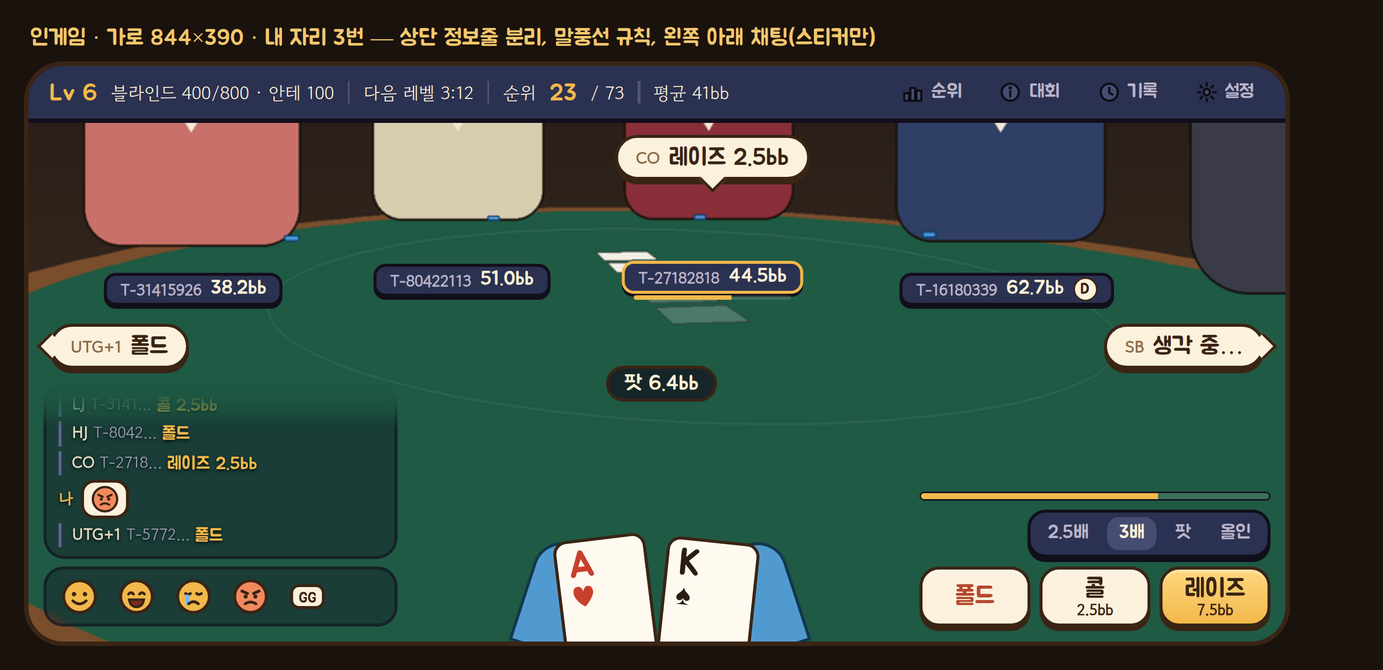
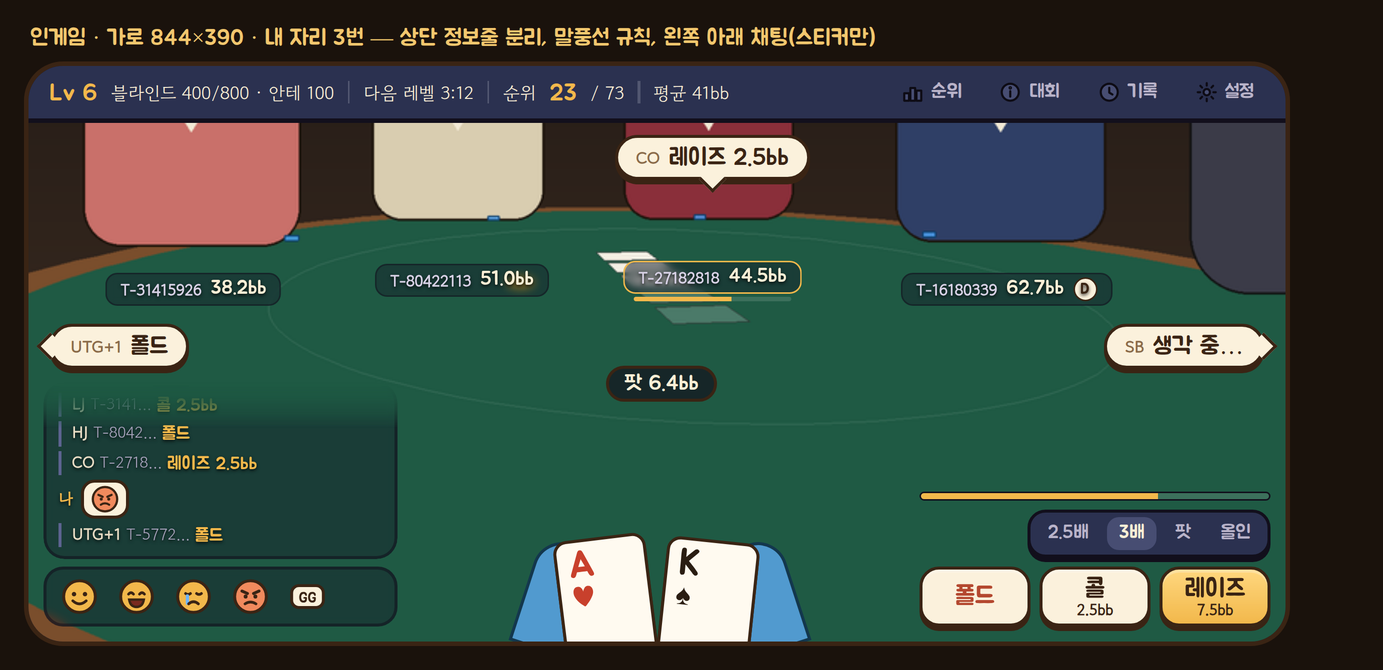
인게임 명패 반투명, 맨 위 띠를 테이블 화면과 분리(시제품도 같은 배치)
Claude-Session: https://claude.ai/code/session_01XV9GKUYpuxdA2ckcjg1qsv

diff --git a/ui/web/proto/motions.html b/ui/web/proto/motions.html
@@ -8,30 +8,27 @@
   :root{--ink:#3a2414;--paper:#fbf1dc;--navy:#2b3150;--amber:#f2b84b}
   html,body{margin:0;height:100%;background:#1d2238;overflow:hidden;font-family:"Jua","Gowun Dodum",system-ui,sans-serif;
     -webkit-user-select:none;user-select:none;-webkit-touch-callout:none}
-  canvas{display:block;width:100vw;height:100vh;touch-action:none}
-  .bar{position:fixed;left:8px;top:8px;right:150px;display:flex;flex-wrap:wrap;gap:6px;pointer-events:none}
-  .grp{display:flex;gap:5px;padding:5px;border-radius:14px;background:rgba(20,22,38,.55);border:2px solid rgba(18,15,28,.6);pointer-events:auto}
-  button{font:inherit;font-size:13px;height:30px;padding:0 9px;border-radius:11px;border:2.5px solid var(--ink);background:var(--paper);color:var(--ink);
+  /* 맨 위 띠는 테이블 화면과 분리된 별도 영역이다(테이블 위에 떠 있지 않다) */
+  body{display:flex;flex-direction:column}
+  .band{flex:none;height:44px;display:flex;align-items:center;gap:6px;padding:0 8px;background:var(--navy);border-bottom:3px solid #120f1c;overflow-x:auto}
+  canvas{display:block;flex:1;width:100%;min-height:0;touch-action:none}
+  .grp{display:flex;gap:4px;align-items:center}
+  .sep{width:2px;height:22px;background:#ffffff26;margin:0 3px}
+  button{font:inherit;font-size:12px;height:28px;padding:0 7px;white-space:nowrap;flex:none;border-radius:11px;border:2.5px solid var(--ink);background:var(--paper);color:var(--ink);
     box-shadow:0 3px 0 var(--ink);cursor:pointer}
   button:active,button.pressed{transform:translateY(2px);box-shadow:0 1px 0 var(--ink)}
   button.hot{background:linear-gradient(180deg,#ffd77e,#f2b84b)}
   button.on{background:#474d72;color:#fbefd6}
-  .top{position:fixed;right:8px;top:8px;display:flex;gap:5px}
+  .top{margin-left:auto}
   .note{position:fixed;right:12px;bottom:8px;color:#fbefd6;font-size:12px;text-shadow:0 1px 2px #000;opacity:.8}
-  .shot .bar,.shot .top,.shot .note{display:none}
+  .shot .band,.shot .note{display:none}
   .rot{display:none;position:fixed;inset:0;place-items:center;color:#fbefd6;background:#1d2238;font-size:18px;text-align:center}
   @media (orientation:portrait){.rot{display:grid}}
 </style>
 </head>
 <body>
 <script>if(new URLSearchParams(location.search).get("shot"))document.documentElement.classList.add("shot")</script>
-<canvas id="c"></canvas>
-<div class="note">손 동작 시제품 · 손은 임시 상자</div>
-<div class="top grp">
-  <button data-view="fp" class="on">1인칭</button>
-  <button data-view="close">가까이</button>
-</div>
-<div class="bar">
+<div class="band">
   <div class="grp">
     <button data-act="deal">새 카드</button>
     <button data-act="tidy">카드 정리</button>
@@ -40,14 +37,21 @@
     <button data-act="protector" class="hot">프로텍터</button>
     <button data-act="fold">폴드</button>
   </div>
+  <div class="sep"></div>
   <div class="grp">
     <button data-act="shuffle" class="hot">칩 셔플</button>
     <button data-act="idle">대기 셔플</button>
     <button data-act="bet">칩 내밀기</button>
     <button data-act="allin">올인</button>
-    <button data-act="chipreset">칩 되돌리기</button>
+    <button data-act="chipreset">칩 리셋</button>
+  </div>
+  <div class="grp top">
+    <button data-view="fp" class="on">1인칭</button>
+    <button data-view="close">가까이</button>
   </div>
 </div>
+<canvas id="c"></canvas>
+
 <div class="rot">가로로 돌려 주세요</div>
 <script type="module" src="motions.js"></script>
 </body>

diff --git a/ui/web/proto/motions.js b/ui/web/proto/motions.js
@@ -31,7 +31,7 @@ const VIEWS = {
 };
 let view = 'fp';
 function applyView() {
-  const v = VIEWS[view], w = window.innerWidth, h = window.innerHeight, a = w / h;
+  const v = VIEWS[view], w = canvas.clientWidth || window.innerWidth, h = canvas.clientHeight || window.innerHeight, a = w / h;
   cam.aspect = a;
   cam.fov = 2 * Math.atan(Math.tan(v.hfov / 2 * Math.PI / 180) / a) * 180 / Math.PI;
   cam.position.set(...v.pos);
